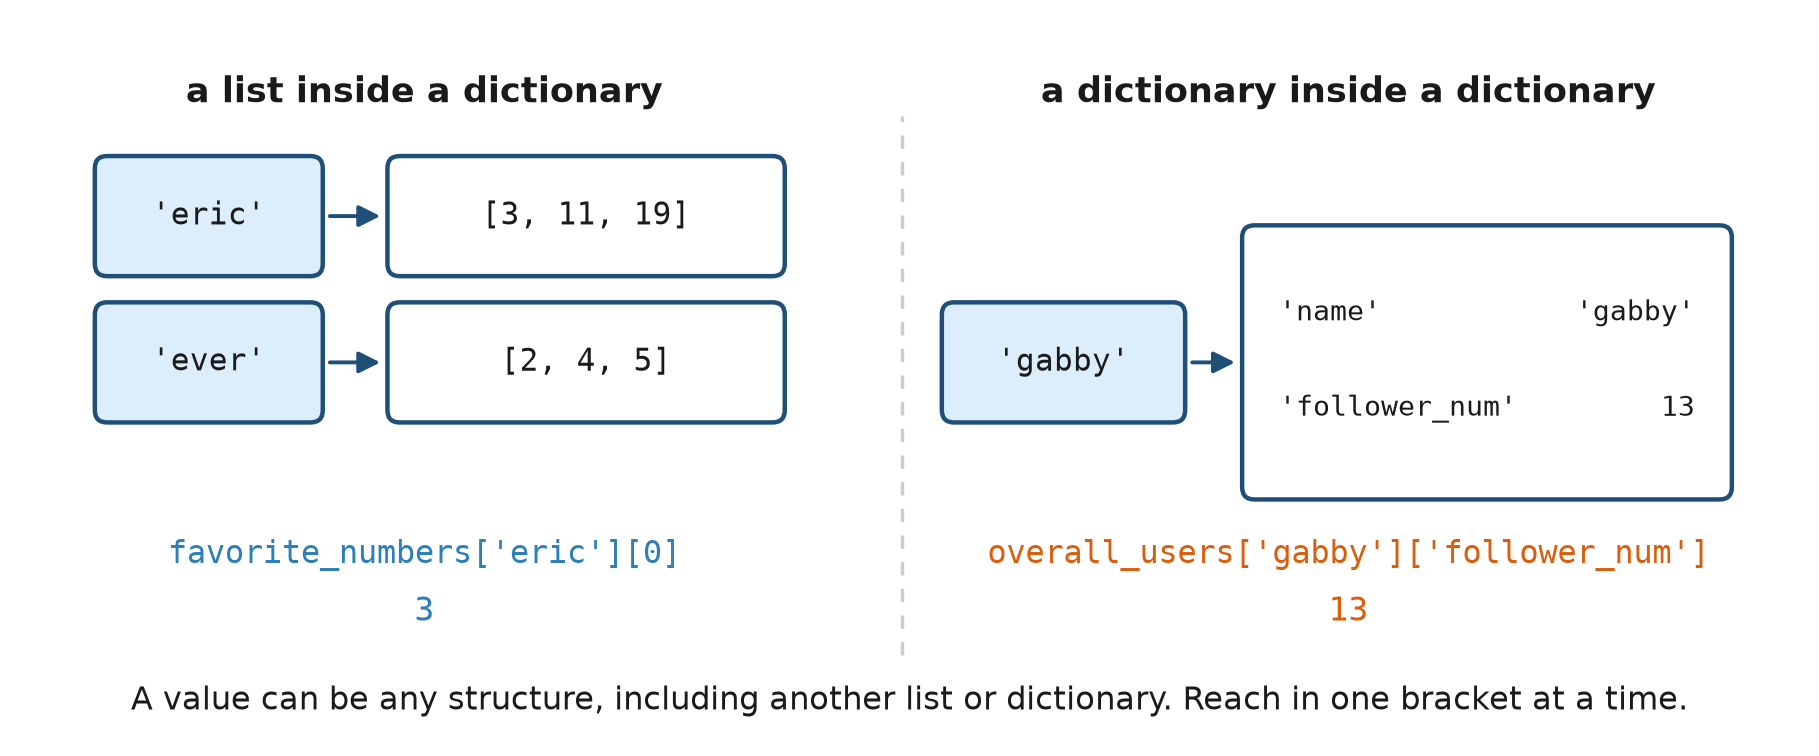
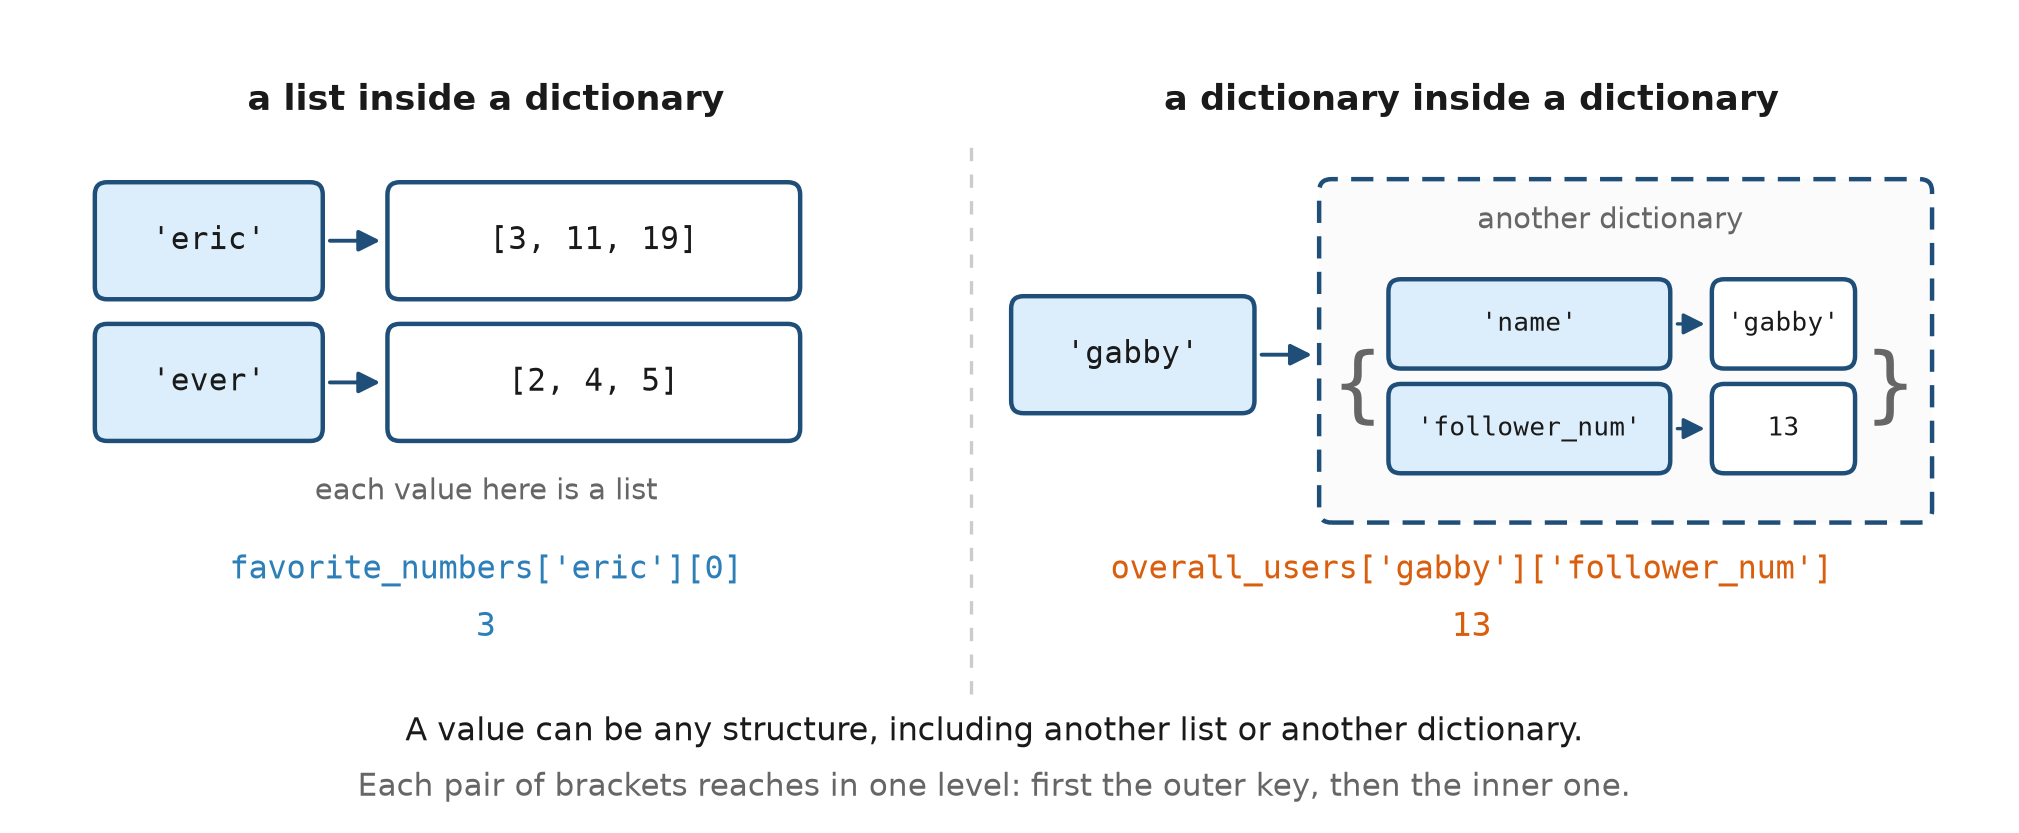
Make the nested dictionary look like a dictionary, drop the files diagram
The right panel of the nesting diagram drew the inner dictionary as a plain
panel of text, which never actually said "dictionary": it could have been
anything. It now uses the same key box, arrow, value box shape as every
other dictionary in this set, inside a dashed frame labelled "another
dictionary" and wrapped in braces, so the structure is the point rather
than a caption claiming it.

Redrawing it exposed an overlap on the left panel too: the "the value is a
list" note sat on top of the second value box. Moved below the pair and
reworded.

The 42_files diagram is removed, with its PNG and the function that drew
it, so nothing regenerates an unused file. The dump/dumps/load/loads table
it sat under is untouched, which is the part exam item fil-01 tests.

Eleven diagrams remain: two on Day 1, four on Day 2, two on Day 3, three on
Day 4. All 13 local notebook images resolve and all 14 lecture notebooks
still execute.

Claude-Session: https://claude.ai/code/session_01K2UitAnbVnsxi823KSJJGp

diff --git a/tools/make_diagrams.py b/tools/make_diagrams.py
@@ -298,36 +298,57 @@ def dict_vs_list(path):
 
 # --------------------------------------------------------------------------
 def nested_dicts(path):
-    """Diagram 2: the value can itself be a list or a dictionary."""
-    fig, ax = canvas(11.5, 4.6)
-    ax.plot([5.7, 5.7], [0.5, 4.0], color="#cccccc", lw=1.2, ls=(0, (4, 4)))
+    """Diagram 2: the value can itself be a list or a dictionary.
 
-    note(ax, 2.6, 4.15, "a list inside a dictionary", size=12.5, color=INK, bold=True)
+    The inner dictionary is drawn with the same key-box, arrow, value-box
+    shape as every other dictionary in this set, and wrapped in braces. An
+    earlier version drew it as a plain panel of text, which did not say
+    "dictionary" at all: it could have been anything.
+    """
+    fig, ax = canvas(12.8, 5.1)
+    ax.plot([6.15, 6.15], [0.75, 4.35], color="#cccccc", lw=1.2, ls=(0, (4, 4)))
+
+    # ---- left: a list inside a dictionary --------------------------------
+    note(ax, 3.0, 4.6, "a list inside a dictionary", size=12.5, color=INK, bold=True)
     for i, (k, v) in enumerate([("'eric'", "[3, 11, 19]"), ("'ever'", "[2, 4, 5]")]):
-        yy = 3.0 - i * 0.95
-        box(ax, 0.5, yy, 1.4, 0.7, k, size=11)
-        box(ax, 2.4, yy, 2.5, 0.7, v, size=11, fill="#ffffff")
-        arrow(ax, (1.95, yy + 0.35), (2.35, yy + 0.35), lw=1.4)
-    note(ax, 2.6, 1.15, "favorite_numbers['eric'][0]", size=11.5, color=BLUE, mono=True)
-    note(ax, 2.6, 0.78, "3", size=12, color=BLUE, mono=True)
+        yy = 3.35 - i * 0.92
+        box(ax, 0.5, yy, 1.4, 0.68, k, size=11)
+        box(ax, 2.4, yy, 2.6, 0.68, v, size=11, fill="#ffffff")
+        arrow(ax, (1.95, yy + 0.34), (2.35, yy + 0.34), lw=1.4)
+    note(ax, 3.0, 2.06, "each value here is a list", size=10.5, color=MUTED)
+    note(ax, 3.0, 1.55, "favorite_numbers['eric'][0]", size=11.5, color=BLUE, mono=True)
+    note(ax, 3.0, 1.18, "3", size=12, color=BLUE, mono=True)
 
-    note(ax, 8.6, 4.15, "a dictionary inside a dictionary", size=12.5, color=INK, bold=True)
-    box(ax, 6.0, 2.05, 1.5, 0.7, "'gabby'", size=11)
-    ax.add_patch(FancyBboxPatch((7.95, 1.55), 3.1, 1.7,
+    # ---- right: a dictionary inside a dictionary -------------------------
+    note(ax, 9.4, 4.6, "a dictionary inside a dictionary", size=12.5, color=INK,
+         bold=True)
+    box(ax, 6.45, 2.61, 1.5, 0.68, "'gabby'", size=11)
+    arrow(ax, (8.0, 2.95), (8.4, 2.95), lw=1.4)
+
+    # The inner dictionary: its own frame, its own braces, its own key-value
+    # pairs drawn exactly like the outer ones.
+    ax.add_patch(FancyBboxPatch((8.45, 1.9), 3.9, 2.15,
                                 boxstyle="round,pad=0.04,rounding_size=0.08",
-                                linewidth=1.6, facecolor="#ffffff", edgecolor=EDGE))
+                                linewidth=1.6, facecolor="#fbfbfb", edgecolor=EDGE,
+                                linestyle=(0, (5, 3))))
+    note(ax, 10.3, 3.82, "another dictionary", size=10.5, color=MUTED)
+    ax.text(8.66, 2.72, "{", ha="center", va="center", fontsize=30, color=MUTED, **MONO)
+    ax.text(12.12, 2.72, "}", ha="center", va="center", fontsize=30, color=MUTED, **MONO)
     for i, (k, v) in enumerate([("'name'", "'gabby'"), ("'follower_num'", "13")]):
-        yy = 2.72 - i * 0.62
-        ax.text(8.15, yy, k, ha="left", va="center", fontsize=10, color=INK, **MONO)
-        ax.text(10.85, yy, v, ha="right", va="center", fontsize=10, color=INK, **MONO)
-    arrow(ax, (7.55, 2.4), (7.9, 2.4), lw=1.4)
-    note(ax, 8.6, 1.15, "overall_users['gabby']['follower_num']", size=11.5,
+        yy = 2.9 - i * 0.68
+        box(ax, 8.9, yy, 1.75, 0.5, k, size=9.5)
+        box(ax, 11.0, yy, 0.85, 0.5, v, size=9.5, fill="#ffffff")
+        arrow(ax, (10.7, yy + 0.25), (10.95, yy + 0.25), lw=1.2)
+    note(ax, 9.4, 1.55, "overall_users['gabby']['follower_num']", size=11.5,
          color=ORANGE, mono=True)
-    note(ax, 8.6, 0.78, "13", size=12, color=ORANGE, mono=True)
+    note(ax, 9.4, 1.18, "13", size=12, color=ORANGE, mono=True)
 
-    note(ax, 5.75, 0.2,
-         "A value can be any structure, including another list or dictionary. "
-         "Reach in one bracket at a time.", size=11.5, color=INK)
+    note(ax, 6.3, 0.5,
+         "A value can be any structure, including another list or another "
+         "dictionary.", size=11.5, color=INK)
+    note(ax, 6.3, 0.14,
+         "Each pair of brackets reaches in one level: first the outer key, then "
+         "the inner one.", size=11, color=MUTED)
     save(fig, path)
 
 
@@ -455,33 +476,6 @@ def name_and_value(path):
 
 
 # --------------------------------------------------------------------------
-def json_four_names(path):
-    """Diagram 8: dump, dumps, load, loads."""
-    fig, ax = canvas(11, 4.7)
-    box(ax, 4.2, 1.85, 2.6, 0.95, "a dictionary\nin Python", size=11.5, mono=False)
-    box(ax, 0.4, 1.85, 2.3, 0.95, "a file\non disk", size=11.5, mono=False,
-        fill="#f2f2f2", edge="#999999")
-    box(ax, 8.3, 1.85, 2.3, 0.95, "a string\nin memory", size=11.5, mono=False,
-        fill="#f2f2f2", edge="#999999")
-
-    arrow(ax, (4.15, 2.55), (2.75, 2.55), color=BLUE, lw=1.8)
-    note(ax, 3.45, 3.08, "json.dump(obj, f)", size=11, color=BLUE, mono=True)
-    arrow(ax, (2.75, 2.05), (4.15, 2.05), color=BLUE, lw=1.8)
-    note(ax, 3.45, 1.62, "json.load(f)", size=11, color=BLUE, mono=True)
-
-    arrow(ax, (6.85, 2.55), (8.25, 2.55), color=ORANGE, lw=1.8)
-    note(ax, 7.55, 3.08, "json.dumps(obj)", size=11, color=ORANGE, mono=True)
-    arrow(ax, (8.25, 2.05), (6.85, 2.05), color=ORANGE, lw=1.8)
-    note(ax, 7.55, 1.62, "json.loads(s)", size=11, color=ORANGE, mono=True)
-
-    note(ax, 5.5, 0.95, "The s is for string.", size=13, color=INK, bold=True)
-    note(ax, 5.5, 0.45,
-         "dump and load take an open file. dumps and loads hand you, or take "
-         "from you, a plain string.", size=11.5, color=INK)
-    save(fig, path)
-
-
-# --------------------------------------------------------------------------
 def args_kwargs(path):
     """Diagram 9: * collects into a tuple, ** into a dictionary."""
     fig, ax = canvas(11.4, 5.0)
@@ -563,7 +557,6 @@ def main():
     nested_dicts("Day3/img/nested_dicts.png")
     boolean_mask("Day4/img/boolean_mask.png")
     groupby_diagram("Day4/img/groupby.png")
-    json_four_names("Day4/img/json_four_names.png")
     args_kwargs("Day4/img/args_kwargs.png")
 
 
